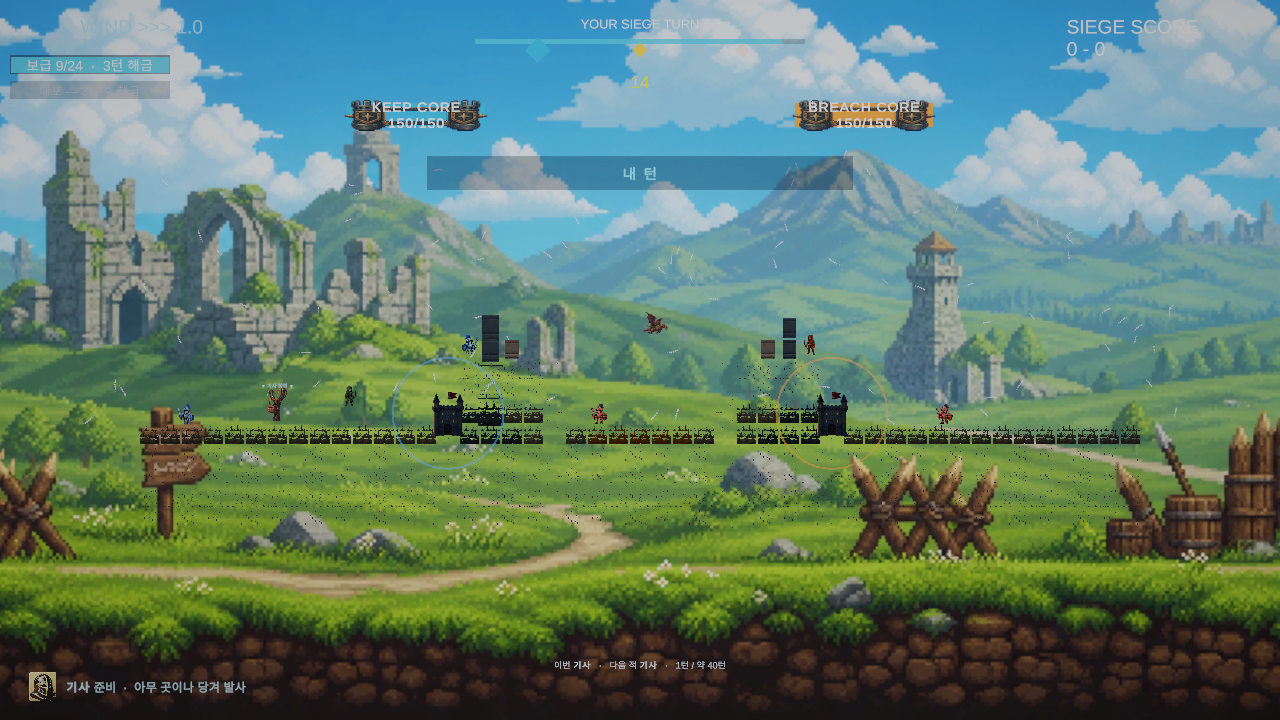
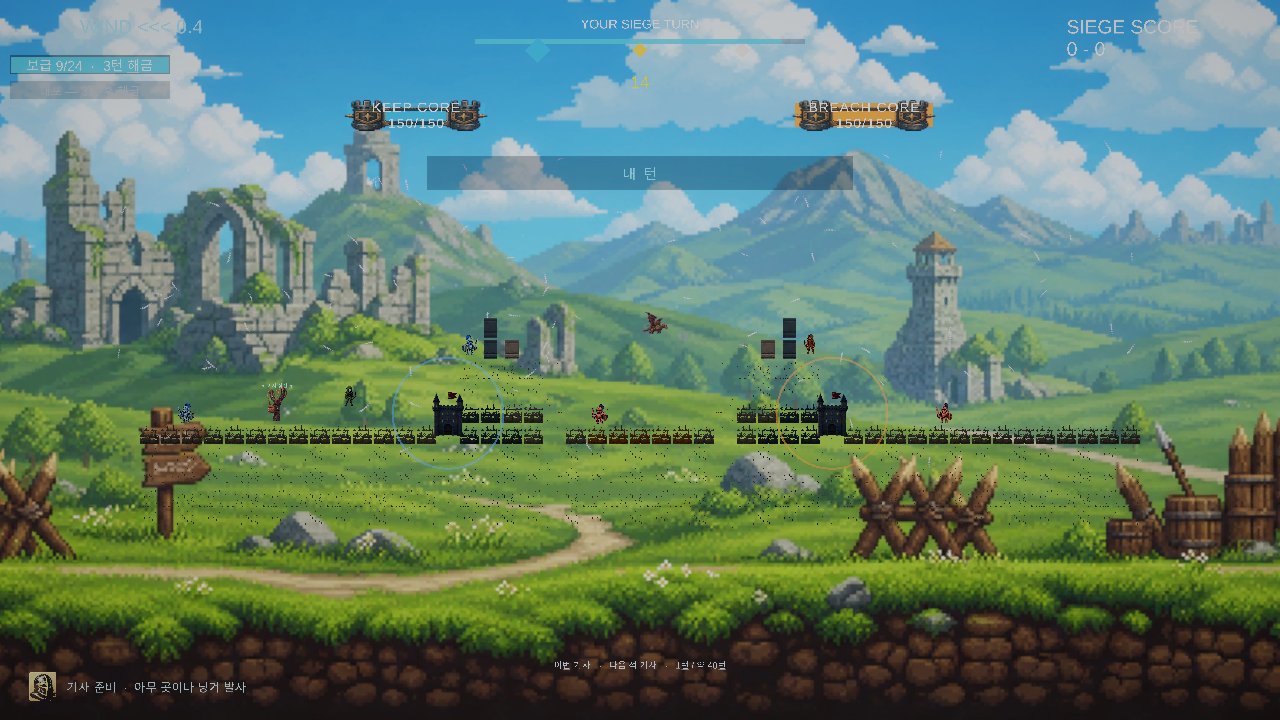
fix(blocks): rescale after the sprite swap, not only before it
A block's scale is derived from its sprite's bounds, and every site that assigns
a sprite recomputes it — ApplyBlockData, SetPresentationSprite, SetSkinSprites.
UpdateVisuals, the one that swaps sprite on every damage-band change, did not.
That gap is where the whole class of "block renders at its authored size" lives,
and the reported screenshot is one instance of it: a translucent masonry
rectangle about 13 units wide lying over the board.

Two paths reach it. ApplyPresentationScale returns early when the renderer has
no sprite yet, so a block that reaches Awake with a null sprite keeps localScale
1 and then renders whatever the first band assigns at full size — block_normal is
1254px at 100 ppu, i.e. 12.54 world units on a 1-unit grid. Separately, damage
art is not guaranteed to share a native size with the normal sprite; today's
three all measure 1254px, which is exactly why a missing rescale stayed
invisible.

The diagnosis was checked before it was fixed. Working back from the screenshot:
735px of game view over 22.4 world units is 32.8 px/unit, and the rectangle is
roughly 450px, so about 13.7 units. Reverting the fix makes the new test report
12.54 — the same number from the other direction.

fx_spawn's burst sizing was the first suspect and it was wrong. That was fixed in
42ff8c7b, and the live build (2026-08-20 01:18 KST) postdates that commit
(00:23), so the fix was already deployed to the build in the screenshot.
[…]

diff --git a/Assets/Tests/EditMode/BlockRenderedSizeTests.cs b/Assets/Tests/EditMode/BlockRenderedSizeTests.cs
@@ -1,0 +1,177 @@
+using System.Reflection;
+using NUnit.Framework;
+using UnityEngine;
+
+namespace CastleBusters.Tests
+{
+    /// <summary>
+    /// Pins that a block renders at <c>targetWorldSize</c> no matter which sprite it is wearing.
+    ///
+    /// The scale is applied by <c>ApplyPresentationScale</c>, and every assignment site called it
+    /// except <c>UpdateVisuals</c> — the one that swaps sprite on every damage-band change. Two
+    /// things fell through that hole. <c>ApplyPresentationScale</c> returns early when the renderer
+    /// has no sprite, so a block reaching Awake with a null sprite kept localScale 1 and then
+    /// rendered the first band's art at its authored size: block_normal is 1254px at 100 ppu, i.e.
+    /// **12.54 world units** on a 1-unit grid. And damage art is not guaranteed to share a native
+    /// size with the normal sprite, so a future mismatch would have shown as blocks jumping when
+    /// they cracked.
+    ///
+    /// It shipped because nothing measured RENDERED size after a band change. There were tests for
+    /// which sprite each band picks, and tests for collider/visual agreement at construction, and
+    /// between them sat the swap.
+    ///
+    /// Sizes are asserted through <c>SpriteRenderer.bounds</c> — what the camera sees — rather than
+    /// through localScale, because the defect is a size on screen and scale is only one of the
+    /// inputs to it.
+    /// </summary>
+    public class BlockRenderedSizeTests
+    {
+        private const float TargetSize = 1.0f;
+
+        [Test]
+        public void ABlockKeepsItsTargetSizeAcrossEveryDamageBand()
+        {
+            var go = new GameObject("BlockRenderedSize_Block");
+            try
+            {
+                var sr = go.AddComponent<SpriteRenderer>();
+                var block = go.AddComponent<DestructibleBlock>();
+                block.targetWorldSize = TargetSize;
+                Awaken(block);
+
+                // Three sprites at three DIFFERENT native sizes. Today's shipped trio happens to
+                // match at 1254px, which is precisely why a missing rescale was invisible — the test
+                // has to supply the disagreement the art does not currently have.
+                var normal = MakeSprite(64);
+                var cracked = MakeSprite(256);
+                var heavy = MakeSprite(512);
+
+                var data = ScriptableObject.CreateInstance<BlockData>();
+                data.blockName = "SizeProbe";
+                data.maxHP = 100f;
+                data.normalSprite = normal;
+                data.crackedSprite = cracked;
+                data.heavilyCrackedSprite = heavy;
+                data.blockColor = Color.white;
+
+                block.ApplyBlockData(data);
+
+                // Band 0. ApplyBlockData already scales, so this is the control: if it fails, the
+                // problem is not the swap.
+                AssertRendered(sr, "band 0 (intact)");
+
+                // Band 1 at ratio <= 0.7, band 2 at <= 0.3 — see CastleSkinLibrary.ComputeDisplayBand.
+                SetHp(block, 60f);
+                AssertRendered(sr, "band 1 (cracked)");
+                Assert.That(sr.sprite, Is.SameAs(cracked), "band 1 must be wearing the cracked art");
+
+                SetHp(block, 20f);
+                AssertRendered(sr, "band 2 (crumbling)");
+                Assert.That(sr.sprite, Is.SameAs(heavy), "band 2 must be wearing the heavy art");
+
+                // And back up, because the wear ratchet can lower the displayed band and a rescale
+                // that only ever grows would pass everything above.
+                SetHp(block, 95f);
+                AssertRendered(sr, "band 0 again (repaired)");
+
+                Object.DestroyImmediate(data);
+            }
+            finally
+            {
+                Object.DestroyImmediate(go);
+            }
+        }
+
+        [Test]
+        public void ABlockThatStartsWithNoSpriteStillLandsAtTargetSize()
+        {
+            var go = new GameObject("BlockRenderedSize_LateSprite");
+            try
+            {
+                var sr = go.AddComponent<SpriteRenderer>();
+                var block = go.AddComponent<DestructibleBlock>();
+                block.targetWorldSize = TargetSize;
+                Awaken(block);
+
+                // The exact path that produced the reported rectangle: no sprite when the scale is
+                // first computed, so ApplyPresentationScale returns early and localScale stays 1.
+                // Whatever arrives next used to render at its authored size — 12.54 units for the
+                // shipped block art.
+                Assert.That(sr.sprite, Is.Null, "this case is about arriving with nothing to scale");
+
+                var data = ScriptableObject.CreateInstance<BlockData>();
+                data.blockName = "LateSpriteProbe";
+                data.maxHP = 100f;
+                data.normalSprite = null;
+                data.crackedSprite = MakeSprite(1254);
+                data.heavilyCrackedSprite = MakeSprite(1254);
+                data.blockColor = Color.white;
+
+                block.ApplyBlockData(data);
+                SetHp(block, 50f); // crosses into band 1, where the first real sprite appears
+
+                Assert.That(sr.sprite, Is.Not.Null, "band 1 must have put a sprite on the renderer");
+                AssertRendered(sr, "first sprite to arrive after a null start");
+
+                Object.DestroyImmediate(data);
+            }
+            finally
+            {
+                Object.DestroyImmediate(go);
+            }
+        }
+
+        private static void AssertRendered(SpriteRenderer sr, string what)
+        {
+            Assert.That(sr.sprite, Is.Not.Null, $"{what}: no sprite to measure");
+            float rendered = Mathf.Max(sr.bounds.size.x, sr.bounds.size.y);
+
+            // 2% tolerance covers float division, not a size mistake: the failure mode here is
+            // multiples — 12.54 against 1.00 — so anything near the target is the target.
+            Assert.That(rendered, Is.EqualTo(TargetSize).Within(TargetSize * 0.02f),
+                $"{what}: renders {rendered:F2} world units against a target of {TargetSize:F2}. "
+                + $"That is {rendered / TargetSize:F1}x its grid cell. The scale is derived from the "
+                + "sprite's own bounds, so a sprite swap without a rescale leaves the previous "
+                + "sprite's scale — or, from a null start, no scale at all.");
+        }
+
+        /// <summary>
+        /// Sets HP directly and redraws, so no damage side effects (debris, labels, telemetry) run.
+        /// </summary>
+        private static void SetHp(DestructibleBlock block, float hp)
+        {
+            block.currentHP = hp;
+
+            var update = typeof(DestructibleBlock).GetMethod(
+                "UpdateVisuals", BindingFlags.Instance | BindingFlags.NonPublic);
+            Assert.That(update, Is.Not.Null, "UpdateVisuals is gone or renamed");
+            update.Invoke(block, null);
+        }
+
+        /// <summary>
+        /// Runs Awake by hand. EditMode's AddComponent does not, and Awake is where the block caches
+        /// the SpriteRenderer it scales — without it ApplyBlockData sees a null renderer, skips the
+        /// sprite assignment entirely, and the test measures nothing while appearing to.
+        /// </summary>
+        private static void Awaken(DestructibleBlock block)
+        {
+            var awake = typeof(DestructibleBlock).GetMethod(
+                "Awake", BindingFlags.Instance | BindingFlags.NonPublic);
+            Assert.That(awake, Is.Not.Null, "Awake is gone or renamed");
+            awake.Invoke(block, null);
+        }
+
+        /// <summary>A square sprite of the given pixel size at 100 pixels-per-unit.</summary>
+        private static Sprite MakeSprite(int px)
+        {
+            var tex = new Texture2D(px, px, TextureFormat.RGBA32, false);
+            var fill = new Color32[px * px];
+            for (int i = 0; i < fill.Length; i++) fill[i] = new Color32(255, 255, 255, 255);
+            tex.SetPixels32(fill);
+            tex.Apply();
+            // 100 ppu matches the shipped block art, so px/100 is the authored world size and the
+            // numbers in the failure messages are the ones a reader would see in the importer.
+            return Sprite.Create(tex, new Rect(0, 0, px, px), new Vector2(0.5f, 0.5f), 100f);
+        }
+    }
+}

diff --git a/Assets/Scripts/DestructibleBlock.cs b/Assets/Scripts/DestructibleBlock.cs
@@ -349,6 +349,23 @@ namespace CastleBusters
                 Color baseColor = blockData.blockColor;
                 spriteRenderer.color = Color.Lerp(baseColor * 0.5f, baseColor, ratio);
             }
+
+            // Rescale for whatever sprite just landed. Every other assignment site does this —
+            // ApplyBlockData, SetPresentationSprite, SetSkinSprites — and this one did not, which
+            // made it the hole the whole class of "block renders at native size" falls through.
+            //
+            // Two ways it bites. ApplyPresentationScale returns early when the renderer has no
+            // sprite yet, so a block that reaches Awake with a null sprite keeps localScale 1 and
+            // then renders whatever the first band assigns at its authored size: block_normal is
+            // 1254px at 100 ppu, i.e. 12.54 world units against a 1-unit grid. That is the reported
+            // symptom — a translucent masonry rectangle roughly 13 units wide sitting over the
+            // board. And separately, damage-state art is not guaranteed to share a native size with
+            // the normal sprite; today's three do, so a size difference introduced later would
+            // otherwise appear as blocks jumping when they crack.
+            //
+            // Idempotent: the scale is derived from the sprite's own bounds against
+            // targetWorldSize, so calling it per swap costs the division and nothing else.
+            ApplyPresentationScale();
         }
 
         public void MakeFall()

diff --git a/_workspace/current/production/task-manifest.md b/_workspace/current/production/task-manifest.md
@@ -138,3 +138,4 @@ Blocking notes:
 | 70 | 발주서 기반 아트 36장 적용 | engineering + QA + design | done 2026-08-19 - 사용자 지시 "현재 발주서 기반으로 이미지 만들었는데, 적용시켜줘". **24장 적용, 12장 거부.** 거부는 실측 근거 - D-2 적 진영 타일 12장이 아군 `CastleSkin`과 **실루엣차 0.0000~0.0027, 패턴차 0.001~0.042**(판정선 0.08을 0장이 넘음). 이 타일들은 풀블리드 텍스처이고 알파가 전면 불투명이라 **실루엣이라는 개념이 없으며**(형태는 블록 격자가 정함) 무채색 틴트 소스이므로 `blockColor`가 칠해 두 진영이 같아진다 - **발주 자체가 아트로 도달할 수 없는 것을 요구**했다. **적용 중 기존 무음 회귀를 발견**: `CreateGround:1618-1619`가 지면 블록을 성 자식으로 만들고 `:1623`의 `RefreshBlockList()`가 `CastleFacadeDirector.ApplySkins`를 불러 **205개 지면 타일 전부를 성벽 석재로 재스킨** - 아틀라스 생성·205 슬라이스·타일별 균열 지연 베이크가 할당된 다음 줄에서 폐기됐다. 아무도 신고하지 않은 이유는 폐기 결과도 정상으로 보이는 판이고 `ApplySkins` 주석이 아직 "no-op until the generated CastleSkin tiles exist"라고 적혀 있어서다(작성 시점엔 사실). **부수 결과**: 역할 배정이 위치 기반인데 지면 41열이 바운딩 박스에 들어가 성벽 블록의 Edge/Face가 성 너비의 4배 기준으로 계산됐다. `IsTerrainTile`로 스킨 루프와 바운딩 박스 양쪽에서 제외 - 지면 띠 픽셀 변화 **0.64% -> 36.9%**. **제가 이번 세션에 8번 틀렸다**(`qa/art-apply-record.md` §3) - 특히 미소비 3건이 전부 중복이었다(`fx_muzzle`이 이미 재생 중 / 대포가 발사체 자체 / `block_cracked` 3단계가 이미 동작): 세 번 다 "키가 안 쓰이나"를 묻고 "기능이 이미 다른 아트로 충족되나"를 묻지 않았다. 근거: EditMode **564/565** 실패 0(`qa/evidence/art-apply/`), `GroundTileArtTests` 6/6, PlayMode 캡처 1/1 | G4/G6 |
 | 71 | 작업 70의 미해결 4건 처리 | engineering + QA | done 2026-08-19 - 사용자 지시 "미해결 된 부분도 같이 수정해줘". **3건 닫음, 1건 닫을 수 없어 재진술.** **(1) "5행 중 2행만 지형"은 오측정** - 화면 픽셀로는 *틀린 타일*과 *가려진 올바른 타일*을 구분할 수 없다(소품이 지형을 덮는 것은 허용, 타일이 틀린 것은 불허인데 같은 픽셀을 낸다). 블록에게 직접 물으니(`TerrainRowProbe.cs`) **5행 전부 정확**했다 - RGB 거리 0.001/0.004/0.000/0.006/0.006, 판정선 0.16. 그 과정에 결함 2건: **41열 하드코딩이 실제 47열**(Stage1 `groundHalfWidth`=23)이었고 출처는 `StageDefinitions.cs:106`의 08-13 확장 이후 갱신 안 된 주석이었다 - 그 값을 테스트 두 곳에 박았고 **테스트는 통과했다**(빌더가 어떤 너비에도 자기일관적이라 *게임이 만들지 않는 아틀라스*를 재고 있었다). 주석의 숫자 목록을 삭제하고 테스트를 `StageDefinitions`에서 파생시켰다. 그리고 **`Mathf.RoundToInt`가 .5 동점을 짝수로 반올림**해 행 중심 −0.5/−1.5/−2.5/−3.5/−4.5가 0/−2/−2/−4/−4로 5행이 3그룹이 됐다 - `y*2`로 홀수 정수에 놓았다. **(2) 32px 축소** - 두 단계 중 CPU 단계(128→**87**, 99가 아니다)만 결함이었다: 최근접이 목적지 1픽셀당 소스 1.47개 중 하나만 취해 **밉이 만들어지기 전에** 버렸다. 알파 가중 면적 평균으로 교체, 왕복 RMSE **17.7% 개선**(7타일 16.0~20.3%). 첫 지표("이웃 차이")는 틀렸다 - 최근접이 원본보다 이웃 차이가 *크다*(8.66 대 8.17), 그것이 에일리어싱이다. **화면 효과는 작다**(지면 띠 2.9%, 거칠기 −1.0%) - 87→32의 GPU 삼선형이 대부분 흡수한다. 아틀라스는 옳고 눈에 보이는 이득은 작다, 둘 다 사실이다. 부수로 `GetPixels32`를 235회→7회(텍스처별 캐시, 완성 후 비움). **(3) `Higgsfield` 부재** - 이력은 복구 불가. 톤을 수치로 남기고(`design/tone-reference.json`, 39개 자산군) 증가를 막았다(`ArtProvenanceGuardTests`, 미문서화 상한 204 + 상한이 실제보다 10 넘게 높으면 실패). 자산군 집계도 22→35로 또 틀렸었다(파일 단위 272장 중 204장). 디렉터리 단위 가드를 먼저 썼다가 테스트가 `fx_spark`·`particles`의 **부분 문서화**를 잡아 총량 상한으로 바꿨다. **(4) 닫지 못한 것: 아트가 게임성을 늘렸다는 측정은 없다** - 판정 기준 자체가 정의되지 않았고, 대체 지표를 만들어 아는 것처럼 보이게 하지 않았다. 근거: EditMode **567/568** 실패 0, `GroundTileArtTests` 7/7, `TerrainRowProbe` 1/1, `ArtProvenanceGuardTests` 2/2 | G4/G6 |
 | 72 | 사용자 보고 3건: 거대 벽 / 사라진 빨간 점 / 안 보이는 궤적 | engineering + QA | done 2026-08-20 - **3건 전부 제가 만든 회귀였고, 원인이 같은 종류였다: 역할에 맞지 않는 불투명도의 아트로 교체.** **(1) "유니티 실행전 돌이 크게 보인다"** - 작업 70이 지면을 `CastleFacadeDirector`에서 제외해 아틀라스를 살렸는데, CastleSkin은 **47~82% 불투명**이라 배경의 풀·길·돌이 비쳤고 Ground 타일은 **100% 불투명**이라 배경을 덮었다. 47×5 불투명 사각형이 화면 중앙을 가로지르면 거대한 벽으로 읽힌다 - 정확히 그렇게 보고됐다. 아틀라스 낭비는 실재했지만 **고칠 쪽이 파사드가 아니었다**: `CreateGround`가 스킨 아트가 있으면 아틀라스를 아예 만들지 않고, 지면은 다시 스킨을 입는다(박스 제외는 유지 - 벽 블록 역할 계산 결함은 별개로 유효). 그 과정에 **두 번째 결함**: `if (groundTex == null) continue;`가 루프 끝의 **부모 지정까지 건너뛰어** 지면이 성 자식이 안 되고 스킨도 구조 계산도 받지 못했다(드문 실패 경로였던 것을 정상 경로로 만들자 드러남). 긍정형 `if (groundTex != null)`로 교체, 기존 소스 문자열 핀도 갱신. **(2) "빨간색점 드랍 위치가 사라졌다"** - `ui_impact_marker`가 **8.8% 불투명 외곽선**이고 0.44u(≈14px)에서 사라진다. 절차적 원은 채워진 디스크(≈78%)였다. 흰 픽셀 + 렌더러 틴트로 복원 - 채움과 깨끗한 틴트를 동시에 얻는다(원래 앰버를 픽셀에 구워 자기명중 청색과 곱해지던 문제도 해결). `PredictedDestinationColor` docstring이 *"붉은 점은 명시된 요구사항"*이라 적어두었는데 **핀이 없어 조용히 깨졌다** - `ImpactMarkerVisibilityTests` 2건 추가(커버리지 >0.5, 흰 픽셀, 적색 우세). **(3) "아군 궤적이 안 보인다"** - 실측: 궤적 자체 색이 머리 2.70:1, **꼬리 1.54:1**(비그래픽 기준선 3:1). **밝은 후보는 전부 더 나쁘다** - 시안 1.78, 로열블루 1.93, 호박 1.37: 하늘(0.43,0.65,0.72)과 초지(0.40,0.54,0.43)가 둘 다 중간 밝기라 **채도로는 밝기 충돌을 못 고친다.** 단일 색으로 양쪽 3:1을 넘기는 것은 없다. 2층으로 해결 - 짙은 남색(0.03,0.08,0.30) 림을 코어 뒤 한 단계 아래에 상수 폭으로, 라벨이 outline을 받은 것과 같은 해법. **중앙값 2.30 -> 4.14 (+80%)**, 하위 10% 1.15 -> 2.65. 남은 약한 10%는 x 181~1168 전체에 분산·y 368 집중 - **꼬리가 아니라 궤적이 어두운 유닛·블록 위를 지나는 지점**이고, 어두운 림이 어두운 물체 위에서 경계를 못 만드는 것은 구조적이다(3층을 만드는 것은 나쁜 거래). **측정 중 제 추측이 세 번 틀렸다**: 꼬리 탓이라 했고(위치가 분산), 헤일로 테이퍼 탓이라 했고(상수 폭으로 2.69->2.63, 무변화), 첫 지표가 프린지를 궤적으로 셌다(임계값 24->64/255). 그리고 첫 이웃 지표가 2층 설계에 안 맞았다 - 픽셀별 대비는 어두운 배경에서 림이 아니라 코어가 나르는 것을 못 본다. 근거: EditMode **584/586**(실패 1 = MCP 노이즈), PlayMode 3/3, `qa/evidence/art-apply/trajectory-contrast.txt`·`terrain-rows.txt` | G4/G6 |
+| 73 | 라이브에서 반투명 거대 석재 사각형이 판 위에 겹침 | engineering + QA | done 2026-08-20 - 사용자 스크린샷(라이브 `jellyggumi.github.io`). **원인: `UpdateVisuals`가 세 손상 밴드에서 스프라이트를 교체하면서 `ApplyPresentationScale`을 부르지 않는다.** 다른 할당 지점(`ApplyBlockData`·`SetPresentationSprite`·`SetSkinSprites`)은 전부 부르고 이 하나만 빠져 있어 "블록이 원본 크기로 렌더"되는 종류 전체가 이 구멍으로 빠졌다. 두 경로로 터진다 - (a) `ApplyPresentationScale`은 렌더러에 스프라이트가 없으면 **조기 반환**하므로 스프라이트 없이 Awake에 도달한 블록은 `localScale` 1로 남고, 이후 첫 밴드가 할당하는 아트를 저작 크기로 렌더한다(`block_normal` 1254px @ 100ppu = **12.54 world unit**, 1u 격자 위에서), (b) 손상 단계 아트가 normal과 원본 크기를 공유한다는 보장이 없어 향후 불일치가 균열 시 크기 점프로 나타난다. **진단을 화면에서 역산해 확인**: 게임 뷰 735px / 22.4u = 32.8 px/u, 사각형 약 450px = 13.7u -> `block_normal`의 12.54u와 일치. **변이 테스트가 확증**: 수정을 빼면 테스트가 정확히 **12.54**를 보고한다. akillness의 `fx_spawn` 크기 수정(`42ff8c7b`)을 먼저 의심했고 **틀렸다** - 라이브 빌드(08-20 01:18 KST)가 그 커밋(00:23)보다 뒤라 이미 배포돼 있었다. 조치: `UpdateVisuals` 끝에서 `ApplyPresentationScale()` 호출(스프라이트 bounds에서 스케일을 유도하므로 멱등). **핀 2건 신규**(`BlockRenderedSizeTests`) - 밴드 3단계를 서로 다른 원본 크기(64/256/512px)로 통과시키고 되돌리며 `SpriteRenderer.bounds`로 측정, 그리고 null 시작 경로. 출하 이유는 **밴드 변경 후 렌더 크기를 아무도 재지 않았다**는 것이다 - 어느 밴드가 어느 스프라이트를 고르는지 보는 테스트와 생성 시점 콜라이더·시각 일치를 보는 테스트가 있었고 그 사이에 교체가 있었다. 근거: EditMode **587/588**(실패 0, Skip 1 정당), PlayMode 3/3, 변이 2/2 실패 확인 후 바이트 동일 복원 | G4/G6 |
